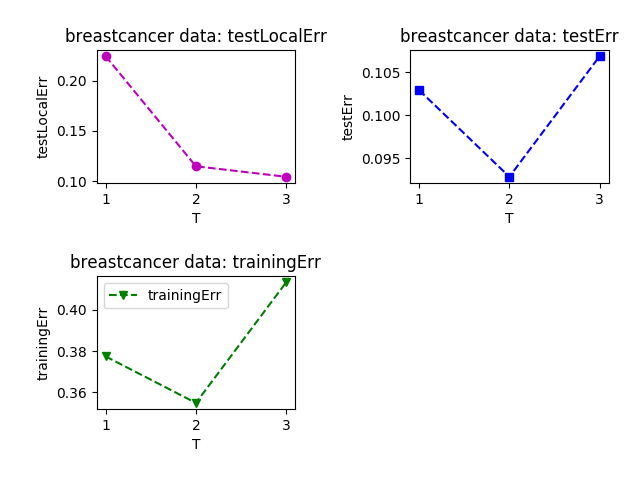
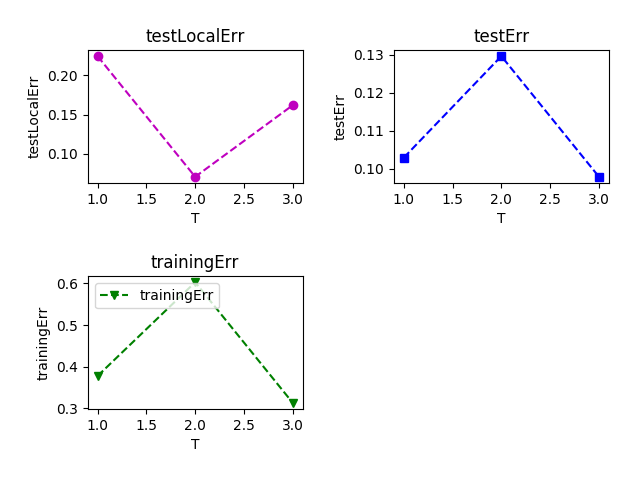
upding changes final

diff --git a/Assignment6/Question2.2.1.py b/Assignment6/Question2.2.1.py
@@ -25,6 +25,7 @@ def calBestThreshold(feature, classCol, midpoints, instWgt) :
     feature1.sort(0)
     errorDiff = -1
     mid = -1
+    sign = 0
     for m in midpoints:
         error = 0
         rownum = 0
@@ -33,9 +34,11 @@ def calBestThreshold(feature, classCol, midpoints, instWgt) :
                 error = error+instWgt[rownum]
             rownum = rownum + 1
         if abs(0.5 - error) > errorDiff :
+            sign = np.sign(0.5 - error)
+            # print("sign = ",sign)
             errorDiff = abs(0.5 - error)
             mid = m
-    return errorDiff, mid
+    return errorDiff, mid, sign
 
 def getBestFeatureMidpoint(xTrain, yTrain, instWgt):
     finalErrorDiff = -1
@@ -43,12 +46,12 @@ def getBestFeatureMidpoint(xTrain, yTrain, instWgt):
     finalFeature = -1
     for f in range(len(xTrain[0])):
         midpoints = calMidpoints(xTrain[:,f])
-        errorDiff, midpoint = calBestThreshold(xTrain[:, f], yTrain, midpoints, instWgt)
+        errorDiff, midpoint, sign = calBestThreshold(xTrain[:, f], yTrain, midpoints, instWgt)
         if errorDiff > finalErrorDiff:
             finalErrorDiff = errorDiff
             finalMidpoint = midpoint
             finalFeature = f
-    return finalFeature, finalMidpoint
+    return finalFeature, finalMidpoint, sign
 
 def calZScore(dataset, meanArr, stdArr):
     for i in range(len(dataset[0]) - 1):
@@ -66,13 +69,13 @@ def getError(y_pred, y_actual, instWgt):
 def calAccuracyScore(y_pred, y_actual):
     return sum(y_pred != y_actual)*100 / float(len(y_actual))
 
-def calPredictedOutput(X, featureIdx, threshold):
+def calPredictedOutput(X, featureIdx, threshold, sign):
     y_pred = []
     for row in X:
         if row[featureIdx]<threshold :
-            y_pred.append(1)
+            y_pred.append(1 if sign<0 else -1)
         else:
-            y_pred.append(-1)
+            y_pred.append(-1 if sign<0 else 1)
     return y_pred
 
 def getNormalizationConst(y_actual, y_pred, instWgt, beta):
@@ -89,10 +92,10 @@ def calEdge(xTrain, yTrain, featureIdx, threshold, instWgt):
         edge = edge + instWgt[n]*(yTrain[n]*actualOutput)
     return edge
 
-def getFinalPrediction(xTest, alphaArr, featureIdxArr, thresholdArr):
+def getFinalPrediction(xTest, alphaArr, featureIdxArr, thresholdArr, sign):
     y_predTrain = np.zeros(len(xTest))
     for n in range(len(alphaArr)):
-        temp = [float(alphaArr[n])*int(x) for x in calPredictedOutput(xTest, featureIdxArr[n], thresholdArr[n])]
+        temp = [float(alphaArr[n])*int(x) for x in calPredictedOutput(xTest, featureIdxArr[n], thresholdArr[n], sign)]
         y_predTrain = y_predTrain + temp
     return np.sign(y_predTrain)
 
@@ -113,13 +116,13 @@ def evaluate_algorithm(dataset, T):
     alphaArr = []
     featureIdxArr = []
     thresholdArr = []
-
+    sign = 0
     for t in np.arange(1, T+1, 1):
         print("t = ",t)
         # fit a simple decision tree, compute error on that
-        featureIdx, threshold = getBestFeatureMidpoint(xTrain, yTrain, instWgt)
-        y_predTrain = calPredictedOutput(xTrain, featureIdx, threshold)
-        y_predTest = calPredictedOutput(xTest, featureIdx, threshold)
+        featureIdx, threshold, sign = getBestFeatureMidpoint(xTrain, yTrain, instWgt)
+        y_predTrain = calPredictedOutput(xTrain, featureIdx, threshold, sign)
+        y_predTest = calPredictedOutput(xTest, featureIdx, threshold, sign)
         testLocalErr.append(getError(y_predTest, yTest, instWgt))
         featureIdxArr.append(featureIdx)
         thresholdArr.append(threshold)
@@ -129,77 +132,92 @@ def evaluate_algorithm(dataset, T):
         alphaArr.append(alpha)
         z = getNormalizationConst(yTrain, y_predTrain, instWgt, alpha)
         instWgt = np.multiply(instWgt, np.exp(-1 * alpha * np.exp(-1 * alpha * np.prod((y_predTrain, yTrain), axis=0))))/z
-        testErr.append(getError(getFinalPrediction(xTest, alphaArr, featureIdxArr, thresholdArr), yTest, instWgt))
-        trainingErr.append(getError(getFinalPrediction(xTrain, alphaArr, featureIdxArr, thresholdArr), yTrain, instWgt))
+        testErr.append(getError(getFinalPrediction(xTest, alphaArr, featureIdxArr, thresholdArr, sign), yTest, instWgt))
+        trainingErr.append(getError(getFinalPrediction(xTrain, alphaArr, featureIdxArr, thresholdArr, sign), yTrain, instWgt))
 
-    y_test_final = getFinalPrediction(xTest, alphaArr, featureIdxArr, thresholdArr)
+    y_test_final = getFinalPrediction(xTest, alphaArr, featureIdxArr, thresholdArr, sign)
     print("Accuracy Score = ",calAccuracyScore(y_test_final, yTest))
     return testLocalErr, testErr, trainingErr
 
 def main():
     print("breastcancer data:")
     breastcancer = pd.read_csv('breastcancer.csv', sep=',', header=None)
-    # T = [1, 2, 3, 4, 5]
+    # T = [1, 2, 3, 4, 5, 6, 7, 8, 9, 10]
     # for t in T:
     #     print("main t = ",t)
     #     testLocalErr, testErr, trainingErr = evaluate_algorithm(breastcancer.values, t)
     # t = 1: AccuracyScore = 89.47368421052632
-    # t = 2: AccuracyScore = 89.47368421052632
-    # t = 3: AccuracyScore = 100.0
-    # t = 4: AccuracyScore = 100.0
-    # t = 5: AccuracyScore = 100.0
+    # t = 2: AccuracyScore = 72.80701754385964
+    # t = 3: AccuracyScore = 89.47368421052632
+    # t = 4: AccuracyScore = 72.80701754385964
+    # t = 5: AccuracyScore = 89.47368421052632
+    # t = 6: AccuracyScore = 72.80701754385964
+    # t = 7: AccuracyScore = 89.47368421052632
+    # t = 8: AccuracyScore = 89.47368421052632
+    # t = 9: AccuracyScore = 89.47368421052632
+    # t = 10: AccuracyScore = 89.47368421052632
     # Hence setting T=3 for breastcancer data
-    testLocalErr, testErr, trainingErr = evaluate_algorithm(breastcancer.values, 10)
+    testLocalErr, testErr, trainingErr = evaluate_algorithm(breastcancer.values, 3)
 
-    # print("diabetes data:")
-    # diabetes = pd.read_csv('diabetes.csv', sep=',', header=None)
-    # T = [1, 2, 3, 4, 5]
+    print("diabetes data:")
+    diabetes = pd.read_csv('diabetes.csv', sep=',', header=None)
+    # T = [1, 2, 3, 4, 5, 6, 7, 8, 9, 10]
     # for t in T:
     #     print("main t = ",t)
     #     testLocalErr, testErr, trainingErr = evaluate_algorithm(diabetes.values, t)
     # t = 1: AccuracyScore = 88.31168831168831
-    # t = 2: AccuracyScore = 88.31168831168831
-    # t = 3: AccuracyScore = 100.0
-    # t = 4: AccuracyScore = 100.0
-    # t = 5: AccuracyScore = 100.0
+    # t = 2: AccuracyScore = 75.97402597402598
+    # t = 3: AccuracyScore = 64.28571428571429
+    # t = 4: AccuracyScore = 88.31168831168831
+    # t = 5: AccuracyScore = 64.28571428571429
+    # t = 6: AccuracyScore = 88.31168831168831
+    # t = 7: AccuracyScore = 75.97402597402598
+    # t = 8: AccuracyScore = 88.31168831168831
+    # t = 9: AccuracyScore = 88.31168831168831
+    # t = 10: AccuracyScore = 88.31168831168831
     # Hence setting T=3 for diabetes data
-    # testLocalErr, testErr, trainingErr = evaluate_algorithm(diabetes.values, 3)
+    testLocalErr, testErr, trainingErr = evaluate_algorithm(diabetes.values, 4)
 
-    # print("spambase data:")
-    # spambase = pd.read_csv('spambase.csv', sep=',', header=None)
+    print("spambase data:")
+    spambase = pd.read_csv('spambase.csv', sep=',', header=None)
     # T = [1, 2, 3, 4, 5, 6, 7, 8, 9, 10]
     # for t in T:
     #     print("main t = ",t)
     #     testLocalErr, testErr, trainingErr = evaluate_algorithm(spambase.values, t)
     # t = 1: AccuracyScore = 82.41042345276873
-    # t = 2: AccuracyScore = 82.41042345276873
-    # t = 3: AccuracyScore = 100.0
-    # t = 4: AccuracyScore = 100.0
-    # t = 5: AccuracyScore = 100.0
+    # t = 2: AccuracyScore = 75.2442996742671
+    # t = 3: AccuracyScore = 82.41042345276873
+    # t = 4: AccuracyScore = 75.2442996742671
+    # t = 5: AccuracyScore = 82.41042345276873
+    # t = 6: AccuracyScore = 75.2442996742671
+    # t = 7: AccuracyScore = 82.41042345276873
+    # t = 8: AccuracyScore = 82.41042345276873
+    # t = 9: AccuracyScore = 82.41042345276873
+    # t = 10: AccuracyScore = 82.41042345276873
     # Hence setting T=3 for spambase data
-    # testLocalErr, testErr, trainingErr = evaluate_algorithm(spambase.values, 3)
+    testLocalErr, testErr, trainingErr = evaluate_algorithm(spambase.values, 3)
 
-    fig = plt.figure()
-    ax1 = fig.add_subplot(221)
-    ax1.set_title('testLocalErr')
-    ax1.set_xlabel('T')
-    ax1.set_ylabel('testLocalErr')
-    ax1.plot(np.arange(1, len(testLocalErr)+1, 1), testLocalErr, ls='--', marker='o', c='m', label='testLocalErr')
-
-    ax2 = fig.add_subplot(222)
-    ax2.set_title('testErr')
-    ax2.set_xlabel('T')
-    ax2.set_ylabel('testErr')
-    ax2.plot(np.arange(1, len(testErr) + 1, 1), testErr, ls='--', marker='s', c='b', label='testErr')
-
-    ax3 = fig.add_subplot(223)
-    ax3.set_title('trainingErr')
-    ax3.set_xlabel('T')
-    ax3.set_ylabel('trainingErr')
-    ax3.plot(np.arange(1, len(trainingErr) + 1, 1), trainingErr, ls='--', marker='v', c='g', label='trainingErr')
-
-    plt.legend(loc='upper left')
-    plt.tight_layout(2, 2, 2)
-    plt.show()
+    # fig = plt.figure()
+    # ax1 = fig.add_subplot(221)
+    # ax1.set_title('testLocalErr')
+    # ax1.set_xlabel('T')
+    # ax1.set_ylabel('testLocalErr')
+    # ax1.plot(np.arange(1, len(testLocalErr)+1, 1), testLocalErr, ls='--', marker='o', c='m', label='testLocalErr')
+    #
+    # ax2 = fig.add_subplot(222)
+    # ax2.set_title('testErr')
+    # ax2.set_xlabel('T')
+    # ax2.set_ylabel('testErr')
+    # ax2.plot(np.arange(1, len(testErr) + 1, 1), testErr, ls='--', marker='s', c='b', label='testErr')
+    #
+    # ax3 = fig.add_subplot(223)
+    # ax3.set_title('trainingErr')
+    # ax3.set_xlabel('T')
+    # ax3.set_ylabel('trainingErr')
+    # ax3.plot(np.arange(1, len(trainingErr) + 1, 1), trainingErr, ls='--', marker='v', c='g', label='trainingErr')
+    #
+    # plt.legend(loc='upper left')
+    # plt.tight_layout(2, 2, 2)
+    # plt.show()
 
 if __name__ == "__main__": main()

diff --git a/Assignment6/Question1.py b/Assignment6/Question1.py
@@ -1,10 +1,8 @@
 
 import numpy as np
-import math
-import random
-from sklearn.metrics import accuracy_score
 import matplotlib
 matplotlib.use('TkAgg')
+import random
 import matplotlib.pyplot as plt
 
 def calSigmoid(val):
@@ -64,7 +62,6 @@ def update(x_final, y_final, learning_rate, wAll):
     return wAll
 
 def getPredictedOutput(X, wAll):
-    # y_pred = np.zeros((len(X), len(X[0])))
     y_pred = []
     idx1 = 0
     for xRow in X:
@@ -77,15 +74,6 @@ def getPredictedOutput(X, wAll):
             y2[i] = 0 if y2[i]<0.5 else 1
         y_pred.append(y2)
         idx1 = idx1 + 1
-    # for xRow in X:
-    #     x_final = []
-    #     for ls in xRow:
-    #         x_final.append([ls])
-    #     x_final = np.array(x_final)
-    #     y1, y2 = feedForward(x_final, wAll)
-    #     for i in range(len(x_final)):
-    #         y_pred[idx1][i] = 0 if y2[i]*x_final[i]==0 else 1
-    #     idx1 = idx1 + 1
     return y_pred
 
 def calAccuracyScore(y_pred, y_actual):
@@ -116,7 +104,7 @@ def evaluate_algorithmGradDecent(X, y, learning_rate, noOfHiddenUnits, maxIter):
     wAll.append(w2)
 
     for iter in range(maxIter):
-        # random.shuffle(X)
+        random.shuffle(X)
         idx = 0
         for xRow in X:
             x_final = []
@@ -133,7 +121,6 @@ def evaluate_algorithmGradDecent(X, y, learning_rate, noOfHiddenUnits, maxIter):
             idx = idx + 1
 
     y_pred = getPredictedOutput(X, wAll)
-    # print("y_pred = ",y_pred)
     return calAccuracyScore(y_pred, y)
 
 def main():
